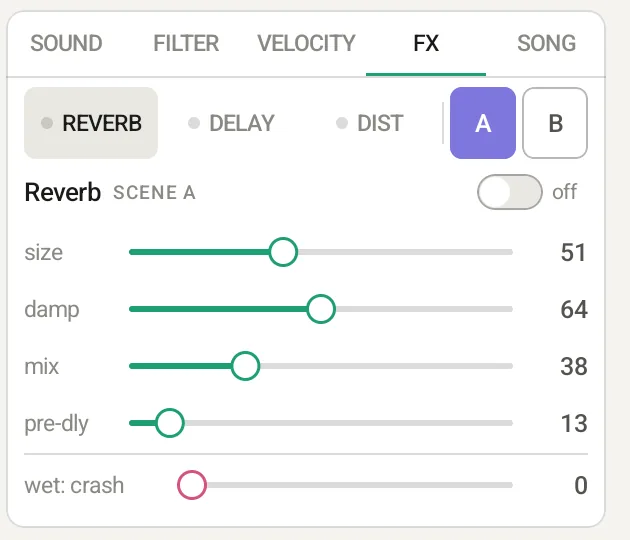
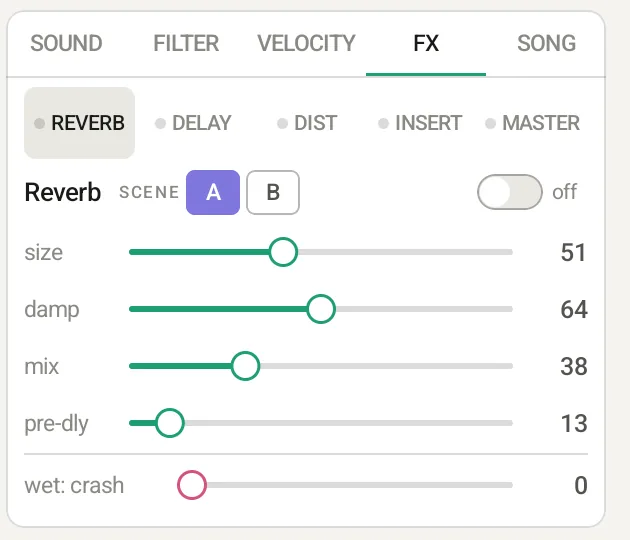
DBR-1 manual: insert FX, master FX (sidechain, glue) and sound presets
Claude-Session: https://claude.ai/code/session_014nrG8LAda3EPv8TQp5hzGz

Changed region(s): [[0.0603, 0.1481, 0.9349, 0.2963], [0.181, 0.2963, 0.4825, 0.4148]]

diff --git a/dbr1/manual/ja.html b/dbr1/manual/ja.html
@@ -213,7 +213,7 @@
 <div>
 <table>
 <tr><th>項目</th><th>はたらき</th></tr>
-<tr><td>LOAD</td><td>From DBR-1/Samples…（保存フォルダの Samples から）/ From file…（端末やクラウドのファイル。WAV・MP3 など）/ ● Record (mic / audio input)…（マイク・オーディオインターフェース・DBR-1 自身の音から録る。スライス・タイムストレッチもここ → <a href="#sampling">下</a>）/ 内蔵の音（キットの音とデモソングの音）</td></tr>
+<tr><td>LOAD</td><td>From DBR-1/Samples…（保存フォルダの Samples から）/ From file…（端末やクラウドのファイル。WAV・MP3 など）/ ● Record (mic / audio input)…（マイク・オーディオインターフェース・DBR-1 自身の音から録る。スライス・タイムストレッチもここ → <a href="#sampling">下</a>）/ <b>Load sound… / Save this sound…</b>（1 トラック分の音 = サンプルと音の設定（フィルター・INSERT・EQ など）を DBR-1/Sounds に保存し、選択中のトラックへ読み込む。サウンドプリセットとして使えます。↶ で戻せます）/ 内蔵の音（キットの音とデモソングの音）</td></tr>
 <tr><td>start / end</td><td>サンプルの再生範囲</td></tr>
 <tr><td>volume / pan</td><td>音量と左右の位置</td></tr>
 <tr><td>pitch</td><td>音の高さ（−12〜+12 半音。音の長さも変わります）</td></tr>
@@ -312,10 +312,37 @@
 <figure class="small"><img src="img/tab_fx.webp" alt="FX タブ"></figure>
 <div>
 <ul>
-  <li><b>REVERB</b>（size / damp / mix / pre-dly）、<b>DELAY</b>（time / fdbk / mix / sync）、<b>DIST</b>（drive / tone / level）を上のボタンで選びます。それぞれ ON / OFF できます。</li>
-  <li>下の <b>wet</b> は、選択中のトラックにそのエフェクトをかける量です（REVERB / DELAY はセンド量、DIST はかかり具合）。トラックごとに違う量を設定できます。</li>
+  <li>上のボタンで <b>REVERB</b>（size / damp / mix / pre-dly）、<b>DELAY</b>（time / fdbk / mix / sync）、<b>DIST</b>（drive / tone / level）、<b>INSERT</b>（トラックごとのエフェクト）、<b>MASTER</b>（サイドチェイン・グルーコンプ）を選びます。● が点いているものが使われています。</li>
+  <li>REVERB / DELAY / DIST はそれぞれ ON / OFF でき、下の <b>wet</b> は選択中のトラックにかける量です（REVERB / DELAY はセンド量、DIST はかかり具合）。</li>
   <li>DELAY の sync は 1/4〜付点 8 分のテンポ同期。time を動かすと FREE（10ms〜1s）になります。</li>
-  <li><b>A / B</b>: エフェクトの設定をパターンごとに 2 セット持てます。演奏中に切り替えられます。</li>
+  <li><b>SCENE A / B</b>（REVERB / DELAY / DIST の名前の横）: REVERB / DELAY / DIST の設定をパターンごとに 2 セット持てます。演奏中に切り替えられます。</li>
+</ul>
+</div>
+</div>
+<h3 id="insert">INSERT（トラックごとのエフェクト）</h3>
+<div class="cols">
+<figure class="small"><img src="img/tab_fx_insert.webp" alt="INSERT"></figure>
+<div>
+<p>トラックごとに 1 つ、エフェクトを選んでかけられます。フィルターの後・DIST の前にかかり、音（キット）と一緒に保存されます。つまみは 2 つと <b>mix</b>（原音と混ぜる量）。種類を変えると、つまみはその種類のおすすめの値になります。</p>
+<table>
+<tr><th>種類</th><th>つまみ</th><th>使いどころ</th></tr>
+<tr><td>COMP</td><td>amount（量）・attack（0.5〜30ms）</td><td>キック・ベースを太く、スネアにパンチ。attack を長くすると頭が残る。音量は自動で補う</td></tr>
+<tr><td>CHORUS</td><td>rate（0.1〜5Hz）・depth</td><td>パッド・ベル・コードを広げる</td></tr>
+<tr><td>PHASER</td><td>rate（0.05〜4Hz）・depth</td><td>ハット・シンセのうねり</td></tr>
+<tr><td>WAH</td><td>sens（感度）・reso</td><td>叩いた強さで開くオートワウ。ファンクのベース・クラビに</td></tr>
+<tr><td>SWEEP</td><td>rate（2 小節・1 小節・1/2・1/4・1/8・1/16）・depth</td><td>テンポに合わせて開閉するローパス。再生の頭でそろう</td></tr>
+<tr><td>CRUSH</td><td>bits（16〜3 ビット）・rate（48k〜1.5kHz）</td><td>ローファイ・古いサンプラー風の荒れ</td></tr>
+</table>
+</div>
+</div>
+<h3 id="masterfx">MASTER（サイドチェイン・グルーコンプ）</h3>
+<div class="cols">
+<figure class="small"><img src="img/tab_fx_master.webp" alt="MASTER"></figure>
+<div>
+<ul>
+  <li><b>Sidechain</b>: <b>trigger</b> で選んだトラック（キックなど）が鳴るたびに、ほかのトラックの音量を <b>depth</b> だけ下げ、<b>release</b>（30〜630ms）で戻します。ハウス・テクノの「ポンピング」が作れます。音を分析せず鳴るタイミングで下げるので軽く、ミュート中のトラックでは下げません。</li>
+  <li><b>glue comp</b>: 全体を軽く圧縮してまとまりを出します（0 = OFF）。リバーブ・ディレイの後、全体フィルターの前にかかります。</li>
+  <li>MASTER の設定はプロジェクトに保存されます（↶ の対象外。MASTER の音量と同じ）。書き出しにもかかります。</li>
 </ul>
 </div>
 </div>
@@ -374,7 +401,7 @@
 <tr><th>フェーダー・ノブの CONTROLS</th><th>はたらき</th></tr>
 <tr><td>FLT</td><td>全体フィルター（上 = ハイパス、下 = ローパス）</td></tr>
 <tr><td>USER</td><td>USER1〜8 の割り当てを足し引きします（→ <a href="#macro">USER</a>）。メインフェーダーの USER とも足し合わされ、いくつ同時に動かしてもかまいません。<b>Edit USER…</b> で割り当ての画面へ</td></tr>
-<tr><td>PARAMETER</td><td>パラメーター 1 つ。TARGET で SELECTED TRACK（選択中のトラック）・決まったトラック（14 種類）か、FX / MASTER（11 種類）を選びます</td></tr>
+<tr><td>PARAMETER</td><td>パラメーター 1 つ。TARGET で SELECTED TRACK（選択中のトラック）・決まったトラック（17 種類）か、FX / MASTER（13 種類）を選びます</td></tr>
 </table>
 <p>ON RELEASE: <b>RETURN</b> = 指を離すと戻る（FLT・USER は中央、パラメーターは触る前の値）、<b>STAY</b> = そのまま。フェーダーは触れた位置へ動き、ノブは上下（または左右）にドラッグして回します。</p>
 <figure><img src="img/phone_perform.webp" alt="スマートフォンのパフォーマンス画面"><figcaption>スマートフォン: 左のタブの PERF</figcaption></figure>
@@ -405,7 +432,7 @@
 <figure><img src="img/automation.webp" alt="オートメーション"><figcaption>左がパラメーターの一覧（それぞれの線を小さく表示）。ind kick のカットオフに LINE と WAVE で線を描いたところ</figcaption></figure>
 <ul>
   <li><b>対象</b>: 一覧から選びます。タブレットは上の 1 行、スマートフォンは左の縦の一覧です（表示中のバンクの 8 トラックと <b>FX / MASTER</b> = リバーブ・ディレイ・ディストーションの設定、MASTER の音量、全体フィルター。スマートフォンでは「FX / MST」）。</li>
-  <li><b>パラメーターの一覧</b>: SOUND・FILTER・EQ・SEND（FX / MASTER では MASTER・REVERB・DELAY・DIST）に分けて並びます。各行の右に、パターン全体の線とロックが小さく出るので、どこに動きがあるか一目で分かります。タップで選びます。</li>
+  <li><b>パラメーターの一覧</b>: SOUND・FILTER・EQ・SEND・INSERT（FX / MASTER では MASTER（音量・全体フィルター・サイドチェインの深さ・グルー）・REVERB・DELAY・DIST）に分けて並びます。各行の右に、パターン全体の線とロックが小さく出るので、どこに動きがあるか一目で分かります。タップで選びます。</li>
   <li><b>描くものは上のボタンで選びます</b>（<b>FREE / LINE / WAVE</b> = 線、<b>LOCK</b> = ロック）:
     <ul>
       <li><b>LOCK</b>: タップ = そのステップに、触れた高さでロック（パラメーターロック）。なぞると、指の通ったステップに続けてロックします。</li>
@@ -460,7 +487,7 @@
 <tr><td>Kit</td><td>16 トラックの音と設定</td><td>.dbrkit</td></tr>
 </table>
 <h3>初めて保存するとき</h3>
-<p>保存先のフォルダを一度だけ選びます。選んだフォルダの中に <b>DBR-1</b> フォルダ（Projects / Patterns / Kits / Samples）が作られます。</p>
+<p>保存先のフォルダを一度だけ選びます。選んだフォルダの中に <b>DBR-1</b> フォルダ（Projects / Patterns / Kits / Samples、音を保存すると Sounds）が作られます。</p>
 <div class="cols">
 <figure><img src="img/folder_intro.webp" alt="フォルダの説明"><figcaption>① Choose folder を押す</figcaption></figure>
 <figure><img src="img/folder_picker.webp" alt="フォルダの選択"><figcaption>② Documents などを開いて「このフォルダを使用」</figcaption></figure>
@@ -532,7 +559,8 @@
 <tr><td>Decay / Start / End</td><td>72 / 17 / 18</td><td>Reverb size / damp / mix / pre-delay</td><td>104 / 105 / 106 / 107</td></tr>
 <tr><td>Filter cutoff / reso</td><td>74 / 71</td><td>Delay time / feedback / mix</td><td>108 / 109 / 110</td></tr>
 <tr><td>EQ low / mid / high</td><td>20 / 21 / 22</td><td>Dist drive / tone / level</td><td>111 / 112 / 113</td></tr>
-<tr><td>Reverb / Delay / Dist send</td><td>91 / 92 / 94</td><td></td><td></td></tr>
+<tr><td>Reverb / Delay / Dist send</td><td>91 / 92 / 94</td><td>Sidechain depth / Glue comp</td><td>114 / 115</td></tr>
+<tr><td>Insert A / B / mix</td><td>76 / 77 / 78</td><td></td><td></td></tr>
 </table>
 <ul>
   <li><b>LEARN</b>: 押すと上に案内が出ます。画面のつまみを動かしてから、コントローラーのつまみを回すと、その CC が割り当てられます（続けて何個でも）。終わったら DONE。</li>
@@ -593,7 +621,7 @@
 <tr><td>ロール</td><td>1/4・1/8・1/16・1/32、SLIP あり / なし</td></tr>
 <tr><td>パフォーマンス画面</td><td>8×4 のマス目 × 4 ページ（端末に保存。タブレット・スマートフォン別）。ボタン 16 種類（押している間 / 押すたびに切替）、フェーダー・ノブ（FLT / USER / パラメーター 1 つ）</td></tr>
 <tr><td>元に戻す</td><td>100 回まで（ステップ・キット・ソング・パターンのテンポ）</td></tr>
-<tr><td>オートメーション</td><td>パターンごと。ステップごとのロック、または 1 ステップ 8 点の線。トラック 14・FX / MASTER 12 のパラメーター</td></tr>
+<tr><td>オートメーション</td><td>パターンごと。ステップごとのロック、または 1 ステップ 8 点の線。トラック 17・FX / MASTER 14 のパラメーター</td></tr>
 </table>
 
 <h3>サンプルと音</h3>
@@ -625,10 +653,12 @@
 <tr><th>項目</th><th>仕様</th></tr>
 <tr><td>トラックのフィルター</td><td>LP12・LP24・HP12・HP24・BP・NOTCH。cutoff 20Hz〜20kHz、reso</td></tr>
 <tr><td>全体フィルター（FLT）</td><td>LP / HP（フェーダーの上下）または BP、12dB / 24dB、reso、AUTO RETURN</td></tr>
-<tr><td>USER（メインフェーダー）</td><td>USER1〜USER8（名前は 5 文字まで）、1 つに割り当て 16 まで（16 トラック × 14 パラメーター / FX・MASTER 12 パラメーター）、量 −100〜+100%（5% 刻み）。今の値に足し引きし 0〜最大で止める</td></tr>
+<tr><td>USER（メインフェーダー）</td><td>USER1〜USER8（名前は 5 文字まで）、1 つに割り当て 16 まで（16 トラック × 17 パラメーター / FX・MASTER 14 パラメーター）、量 −100〜+100%（5% 刻み）。今の値に足し引きし 0〜最大で止める</td></tr>
 <tr><td>リバーブ</td><td>size・damp・mix・pre-delay（0〜200ms）。全体に 1 系統、トラックごとに送る量</td></tr>
 <tr><td>ディレイ</td><td>time・feedback・mix・sync（1/4・1/8・1/16・1/32・3/8・付点 8 分・FREE 10ms〜1s）。ステレオ、全体に 1 系統</td></tr>
 <tr><td>ディストーション</td><td>drive・tone・level。トラックごと</td></tr>
+<tr><td>INSERT</td><td>トラックごとに 1 つ: COMP・CHORUS・PHASER・WAH・SWEEP（テンポ同期）・CRUSH。つまみ 2 つ + mix。フィルターの後・DIST の前</td></tr>
+<tr><td>MASTER</td><td>サイドチェイン（きっかけ 1 トラック、depth、release 30〜630ms）・グルーコンプ（しきい値 0〜−24dB、2:1〜4:1）</td></tr>
 <tr><td>リミッター</td><td>出力の直前（約 −1dBFS から。遅延なし、書き出しにもかかる）</td></tr>
 <tr><td>シーン</td><td>エフェクトの設定をパターンごとに A / B の 2 つ</td></tr>
 </table>
@@ -637,8 +667,8 @@
 <table>
 <tr><th>項目</th><th>仕様</th></tr>
 <tr><td>自動保存</td><td>編集の 3 秒後とアプリを閉じたとき（直前の版を予備として保存）</td></tr>
-<tr><td>ファイル</td><td>.dbrproj（プロジェクト。読み込んだ音を含む）/ .dbrpatt（パターン）/ .dbrkit（キット。読み込んだ音を含む）</td></tr>
-<tr><td>保存先</td><td>選んだフォルダの中の DBR-1/Projects・Patterns・Kits・Samples。クラウドは Android の保存・共有から</td></tr>
+<tr><td>ファイル</td><td>.dbrproj（プロジェクト。読み込んだ音を含む）/ .dbrpatt（パターン）/ .dbrkit（キット。読み込んだ音を含む）/ .dbrsnd（1 トラック分の音。読み込んだ音を含む）</td></tr>
+<tr><td>保存先</td><td>選んだフォルダの中の DBR-1/Projects・Patterns・Kits・Samples・Sounds。クラウドは Android の保存・共有から</td></tr>
 <tr><td>書き出し</td><td>パターン（×1〜16）/ ソング / 演奏の録音（最大 10 分）。MIDI（SMF Type 0 / 1・96 PPQ・ch 10 か ch 1〜16、オートメーションは CC（1 ステップ 8 点）、パターンとソングのみ）。STEMS（ZIP: mix + トラックごとの WAV、パターンとソングのみ）。WAV（16bit ステレオ。PATTERN / SONG と STEMS は 48kHz / 44.1kHz、録音は端末の出力レート）/ M4A（AAC 256kbps）/ MP4（H.264 720×720 30fps + AAC。演奏の録画は画面と同じ縦横比で幅 1280）。DBR-1/Exports に保存</td></tr>
 </table>
 
@@ -649,7 +679,7 @@
 <tr><td>MIDI 出力</td><td>USB-MIDI 1 台。シーケンス・ロール・パッドをノートで送る（既定 10ch、ノートオフは 80ms 後）</td></tr>
 <tr><td>ノートの割り当て</td><td>PADS 36–51 / GM DRUMS</td></tr>
 <tr><td>MIDI クロック</td><td>送信（24 PPQN = 4 分音符あたり 24 個、Start / Stop）/ 受信（Start / Stop / テンポに追従。Start / Stop に従わない設定も可）</td></tr>
-<tr><td>MIDI CC</td><td>受信・送信。26 パラメーター（トラック 14・FX / MASTER 12）、割り当ての編集と LEARN。動かす先は選択中のトラック / MIDI チャンネル = トラック（TARGET）</td></tr>
+<tr><td>MIDI CC</td><td>受信・送信。31 パラメーター（トラック 17・FX / MASTER 14）、割り当ての編集と LEARN。動かす先は選択中のトラック / MIDI チャンネル = トラック（TARGET）</td></tr>
 <tr><td>マルチアウト</td><td>USB の機器の出力が 3ch 以上のとき、トラックごとに出力のペアか 1 チャンネル（モノラル）を選べる（最大 16ch）。MAIN のペアも選べる。チャンネルごとのテスト音</td></tr>
 <tr><td>音声出力</td><td>ステレオ、端末の出力レート（多くは 48kHz）。低遅延の経路で再生。USB オーディオに対応（挿すと自動で切り替え）</td></tr>
 </table>

diff --git a/dbr1/manual/en.html b/dbr1/manual/en.html
@@ -213,7 +213,7 @@
 <div>
 <table>
 <tr><th>Item</th><th>What it does</th></tr>
-<tr><td>LOAD</td><td>From DBR-1/Samples… (the Samples folder) / From file… (a file on the device or in the cloud: WAV, MP3, …) / ● Record (mic / audio input)… (from a microphone, an audio interface or DBR-1 itself; slicing and time stretch are here too → <a href="#sampling">below</a>) / built-in sounds (the kit and the demo songs)</td></tr>
+<tr><td>LOAD</td><td>From DBR-1/Samples… (the Samples folder) / From file… (a file on the device or in the cloud: WAV, MP3, …) / ● Record (mic / audio input)… (from a microphone, an audio interface or DBR-1 itself; slicing and time stretch are here too → <a href="#sampling">below</a>) / <b>Load sound… / Save this sound…</b> (one track's sound — the sample plus its settings such as filter, INSERT and EQ — saved in DBR-1/Sounds and loaded into the selected track; use them as sound presets; undoable) / built-in sounds (the kit and the demo songs)</td></tr>
 <tr><td>start / end</td><td>Which part of the sample plays</td></tr>
 <tr><td>volume / pan</td><td>Level and left-right position</td></tr>
 <tr><td>pitch</td><td>−12 to +12 semitones (the length changes too)</td></tr>
@@ -312,10 +312,37 @@
 <figure class="small"><img src="img/tab_fx.webp" alt="FX tab"></figure>
 <div>
 <ul>
-  <li>Choose <b>REVERB</b> (size / damp / mix / pre-dly), <b>DELAY</b> (time / fdbk / mix / sync) or <b>DIST</b> (drive / tone / level) at the top. Each has its own on / off switch.</li>
-  <li><b>wet</b> at the bottom is how much of the effect the selected track gets — the send level for REVERB / DELAY, the amount for DIST. Set it per track.</li>
+  <li>At the top, choose <b>REVERB</b> (size / damp / mix / pre-dly), <b>DELAY</b> (time / fdbk / mix / sync), <b>DIST</b> (drive / tone / level), <b>INSERT</b> (an effect per track) or <b>MASTER</b> (sidechain and glue comp). A lit ● means it is in use.</li>
+  <li>REVERB / DELAY / DIST each have an on / off switch; <b>wet</b> at the bottom is how much the selected track gets — the send level for REVERB / DELAY, the amount for DIST.</li>
   <li>DELAY sync follows the tempo (1/4 to dotted 1/8). Moving time switches to FREE (10 ms – 1 s).</li>
-  <li><b>A / B</b>: each pattern holds two complete effect settings you can switch between while playing.</li>
+  <li><b>SCENE A / B</b> (next to the REVERB / DELAY / DIST name): each pattern holds two complete REVERB / DELAY / DIST settings you can switch between while playing.</li>
+</ul>
+</div>
+</div>
+<h3 id="insert">INSERT (an effect per track)</h3>
+<div class="cols">
+<figure class="small"><img src="img/tab_fx_insert.webp" alt="INSERT"></figure>
+<div>
+<p>Each track can have one effect of its own. It comes after the filter and before DIST, and is saved with the sound (the kit). There are two knobs and <b>mix</b> (how much is blended with the dry sound). Choosing a type sets the knobs to good starting values.</p>
+<table>
+<tr><th>Type</th><th>Knobs</th><th>Use it for</th></tr>
+<tr><td>COMP</td><td>amount · attack (0.5–30 ms)</td><td>Fatter kicks and bass, punchier snares. A longer attack keeps the hit. Level is made up automatically</td></tr>
+<tr><td>CHORUS</td><td>rate (0.1–5 Hz) · depth</td><td>Widening pads, bells and chords</td></tr>
+<tr><td>PHASER</td><td>rate (0.05–4 Hz) · depth</td><td>Swirling hats and synths</td></tr>
+<tr><td>WAH</td><td>sens · reso</td><td>Auto-wah that opens with how hard the sound hits — funk bass and clav</td></tr>
+<tr><td>SWEEP</td><td>rate (2 bars, 1 bar, 1/2, 1/4, 1/8, 1/16) · depth</td><td>A low-pass that opens and closes in time; it lines up at the start of playback</td></tr>
+<tr><td>CRUSH</td><td>bits (16–3) · rate (48k–1.5 kHz)</td><td>Lo-fi grit, old-sampler style</td></tr>
+</table>
+</div>
+</div>
+<h3 id="masterfx">MASTER (sidechain and glue comp)</h3>
+<div class="cols">
+<figure class="small"><img src="img/tab_fx_master.webp" alt="MASTER"></figure>
+<div>
+<ul>
+  <li><b>Sidechain</b>: each time the <b>trigger</b> track (a kick, say) plays, the other tracks dip by <b>depth</b> and come back over <b>release</b> (30–630 ms) — the house / techno "pump". It follows the hits instead of analysing the sound, so it is light; a muted trigger track does not duck.</li>
+  <li><b>glue comp</b>: gentle compression on the whole mix to glue it together (0 = off). It comes after reverb / delay and before the master filter.</li>
+  <li>MASTER settings are saved with the project (not undoable, like the MASTER volume) and apply to exports.</li>
 </ul>
 </div>
 </div>
@@ -374,7 +401,7 @@
 <tr><th>Fader / knob CONTROLS</th><th>What it does</th></tr>
 <tr><td>FLT</td><td>Master filter (up = high-pass, down = low-pass)</td></tr>
 <tr><td>USER</td><td>Adds / subtracts a USER1–8 assignment (→ <a href="#macro">USER</a>). It adds up with the main fader's USER, and any number can move at once. <b>Edit USER…</b> opens the assignment screen</td></tr>
-<tr><td>PARAMETER</td><td>A single parameter. Under TARGET, choose SELECTED TRACK, a fixed track (14 parameters) or FX / MASTER (11 parameters)</td></tr>
+<tr><td>PARAMETER</td><td>A single parameter. Under TARGET, choose SELECTED TRACK, a fixed track (17 parameters) or FX / MASTER (13 parameters)</td></tr>
 </table>
 <p>ON RELEASE: <b>RETURN</b> = goes back when you let go (FLT and USER to the center, a parameter to its value before you touched it), <b>STAY</b> = stays. Faders jump to where you touch; knobs turn by dragging up / down (or left / right).</p>
 <figure><img src="img/phone_perform.webp" alt="Performance screen on a phone"><figcaption>Phones: the PERF tab on the left</figcaption></figure>
@@ -405,7 +432,7 @@
 <figure><img src="img/automation.webp" alt="Automation"><figcaption>The parameter list on the left shows each line in small. Lines drawn with LINE and WAVE on the ind kick cutoff</figcaption></figure>
 <ul>
   <li><b>Target</b>: pick it from the list: a row at the top on tablets, a column on the left on phones (the 8 tracks of the current bank and <b>FX / MASTER</b> = reverb, delay and distortion settings, master volume, master filter; "FX / MST" on phones).</li>
-  <li><b>Parameter list</b>: it is grouped into SOUND, FILTER, EQ and SEND (MASTER, REVERB, DELAY and DIST for FX / MASTER). Each row shows that parameter's lines and locks for the whole pattern in small, so you can see at a glance what moves. Tap to select.</li>
+  <li><b>Parameter list</b>: it is grouped into SOUND, FILTER, EQ, SEND and INSERT (for FX / MASTER: MASTER — volume, master filter, sidechain depth and glue — REVERB, DELAY and DIST). Each row shows that parameter's lines and locks for the whole pattern in small, so you can see at a glance what moves. Tap to select.</li>
   <li><b>Choose what to draw with the buttons at the top</b> (<b>FREE / LINE / WAVE</b> = lines, <b>LOCK</b> = locks):
     <ul>
       <li><b>LOCK</b>: tap = lock that step to the height you touched (parameter lock). Swipe to lock every step your finger passes.</li>
@@ -460,7 +487,7 @@
 <tr><td>Kit</td><td>Sounds and settings of the 16 tracks</td><td>.dbrkit</td></tr>
 </table>
 <h3>The first time</h3>
-<p>Choose a save folder once. DBR-1 creates a <b>DBR-1</b> folder inside it (Projects / Patterns / Kits / Samples).</p>
+<p>Choose a save folder once. DBR-1 creates a <b>DBR-1</b> folder inside it (Projects / Patterns / Kits / Samples, and Sounds once you save a sound).</p>
 <div class="cols">
 <figure><img src="img/folder_intro.webp" alt="Folder intro"><figcaption>1. Press Choose folder</figcaption></figure>
 <figure><img src="img/folder_picker.webp" alt="Folder picker"><figcaption>2. Open a folder such as Documents and tap “Use this folder”</figcaption></figure>
@@ -532,7 +559,8 @@
 <tr><td>Decay / Start / End</td><td>72 / 17 / 18</td><td>Reverb size / damp / mix / pre-delay</td><td>104 / 105 / 106 / 107</td></tr>
 <tr><td>Filter cutoff / reso</td><td>74 / 71</td><td>Delay time / feedback / mix</td><td>108 / 109 / 110</td></tr>
 <tr><td>EQ low / mid / high</td><td>20 / 21 / 22</td><td>Dist drive / tone / level</td><td>111 / 112 / 113</td></tr>
-<tr><td>Reverb / Delay / Dist send</td><td>91 / 92 / 94</td><td></td><td></td></tr>
+<tr><td>Reverb / Delay / Dist send</td><td>91 / 92 / 94</td><td>Sidechain depth / Glue comp</td><td>114 / 115</td></tr>
+<tr><td>Insert A / B / mix</td><td>76 / 77 / 78</td><td></td><td></td></tr>
 </table>
 <ul>
   <li><b>LEARN</b>: a banner appears at the top. Move an on-screen control, then turn a knob on your controller to assign its CC (repeat as often as you like). Tap DONE when finished.</li>
@@ -593,7 +621,7 @@
 <tr><td>Roll</td><td>1/4, 1/8, 1/16, 1/32, with or without SLIP</td></tr>
 <tr><td>Performance screen</td><td>8×4 grid × 4 pages (saved on the device, separately for tablet and phone). 16 button actions (while held / toggle), faders and knobs (FLT / USER / a single parameter)</td></tr>
 <tr><td>Undo</td><td>Up to 100 steps (steps, kit, song, pattern tempo)</td></tr>
-<tr><td>Automation</td><td>Per pattern. Per-step locks or a line with 8 points per step. 14 track and 12 FX / master parameters</td></tr>
+<tr><td>Automation</td><td>Per pattern. Per-step locks or a line with 8 points per step. 17 track and 14 FX / master parameters</td></tr>
 </table>
 
 <h3>Samples and sound</h3>
@@ -625,10 +653,12 @@
 <tr><th>Item</th><th>Spec</th></tr>
 <tr><td>Track filter</td><td>LP12, LP24, HP12, HP24, BP, NOTCH; cutoff 20 Hz – 20 kHz, reso</td></tr>
 <tr><td>Master filter (FLT)</td><td>LP / HP (fader down / up) or BP, 12 dB / 24 dB, reso, AUTO RETURN</td></tr>
-<tr><td>USER (main fader)</td><td>USER1 to USER8 (names up to 5 letters), up to 16 assignments each (16 tracks × 14 parameters / 12 FX & master parameters), amount −100 to +100% (5% steps). Adds to the current value and stops at the limits</td></tr>
+<tr><td>USER (main fader)</td><td>USER1 to USER8 (names up to 5 letters), up to 16 assignments each (16 tracks × 17 parameters / 14 FX & master parameters), amount −100 to +100% (5% steps). Adds to the current value and stops at the limits</td></tr>
 <tr><td>Reverb</td><td>size, damp, mix, pre-delay (0–200 ms); one shared reverb with a send per track</td></tr>
 <tr><td>Delay</td><td>time, feedback, mix, sync (1/4, 1/8, 1/16, 1/32, 3/8, dotted 1/8, FREE 10 ms – 1 s); stereo, one shared delay</td></tr>
 <tr><td>Distortion</td><td>drive, tone, level; per track</td></tr>
+<tr><td>INSERT</td><td>One per track: COMP, CHORUS, PHASER, WAH, SWEEP (tempo-synced), CRUSH. Two knobs + mix. After the filter, before DIST</td></tr>
+<tr><td>MASTER</td><td>Sidechain (one trigger track, depth, release 30–630 ms) and glue comp (threshold 0 to −24 dB, 2:1 to 4:1)</td></tr>
 <tr><td>Limiter</td><td>Just before the output (from about −1 dBFS, no added latency, also applied to exports)</td></tr>
 <tr><td>Scenes</td><td>Two effect settings (A / B) per pattern</td></tr>
 </table>
@@ -637,8 +667,8 @@
 <table>
 <tr><th>Item</th><th>Spec</th></tr>
 <tr><td>Autosave</td><td>3 seconds after an edit and when the app closes (the previous version is kept as a backup)</td></tr>
-<tr><td>Files</td><td>.dbrproj (project, includes loaded sounds) / .dbrpatt (pattern) / .dbrkit (kit, includes loaded sounds)</td></tr>
-<tr><td>Location</td><td>DBR-1/Projects, Patterns, Kits and Samples inside the folder you choose; cloud via Android's save and share screens</td></tr>
+<tr><td>Files</td><td>.dbrproj (project, includes loaded sounds) / .dbrpatt (pattern) / .dbrkit (kit, includes loaded sounds) / .dbrsnd (one track's sound, includes the loaded sample)</td></tr>
+<tr><td>Location</td><td>DBR-1/Projects, Patterns, Kits, Samples and Sounds inside the folder you choose; cloud via Android's save and share screens</td></tr>
 <tr><td>Export</td><td>Pattern (×1–16) / song / live recording (up to 10 minutes). MIDI (SMF type 0 / 1, 96 PPQ, channel 10 or channels 1–16, automation as CCs at 8 points per step; pattern and song only). STEMS (ZIP: mix + one WAV per track; pattern and song only). WAV (16-bit stereo; pattern / song and STEMS at 48 or 44.1 kHz, recordings at the device's output rate) / M4A (AAC 256 kbps) / MP4 (H.264 720×720 30 fps + AAC; screen recordings are 1280 wide in the screen's aspect ratio). Saved in DBR-1/Exports</td></tr>
 </table>
 
@@ -649,7 +679,7 @@
 <tr><td>MIDI out</td><td>One USB-MIDI device. Sends the sequence, rolls and pad hits as notes (channel 10 by default, note-off after 80 ms)</td></tr>
 <tr><td>Note map</td><td>PADS 36–51 / GM DRUMS</td></tr>
 <tr><td>MIDI clock</td><td>Send (24 PPQN = 24 per quarter note, Start / Stop) / receive (follows Start / Stop and tempo; Start / Stop can be ignored)</td></tr>
-<tr><td>MIDI CC</td><td>Receive and send. 26 parameters (14 per track, 12 FX / master), editable assignments and LEARN. Selected track / channel = track</td></tr>
+<tr><td>MIDI CC</td><td>Receive and send. 31 parameters (17 per track, 14 FX / master), editable assignments and LEARN. Selected track / channel = track</td></tr>
 <tr><td>Multi-out</td><td>With a USB device that has more than 2 outputs, each track can use its own output pair or a single channel (mono), up to 16 ch. The MAIN pair is selectable too. Test tone per channel</td></tr>
 <tr><td>Audio output</td><td>Stereo at the device's output rate (usually 48 kHz), low-latency path. USB audio supported (switches automatically when plugged in)</td></tr>
 </table>
